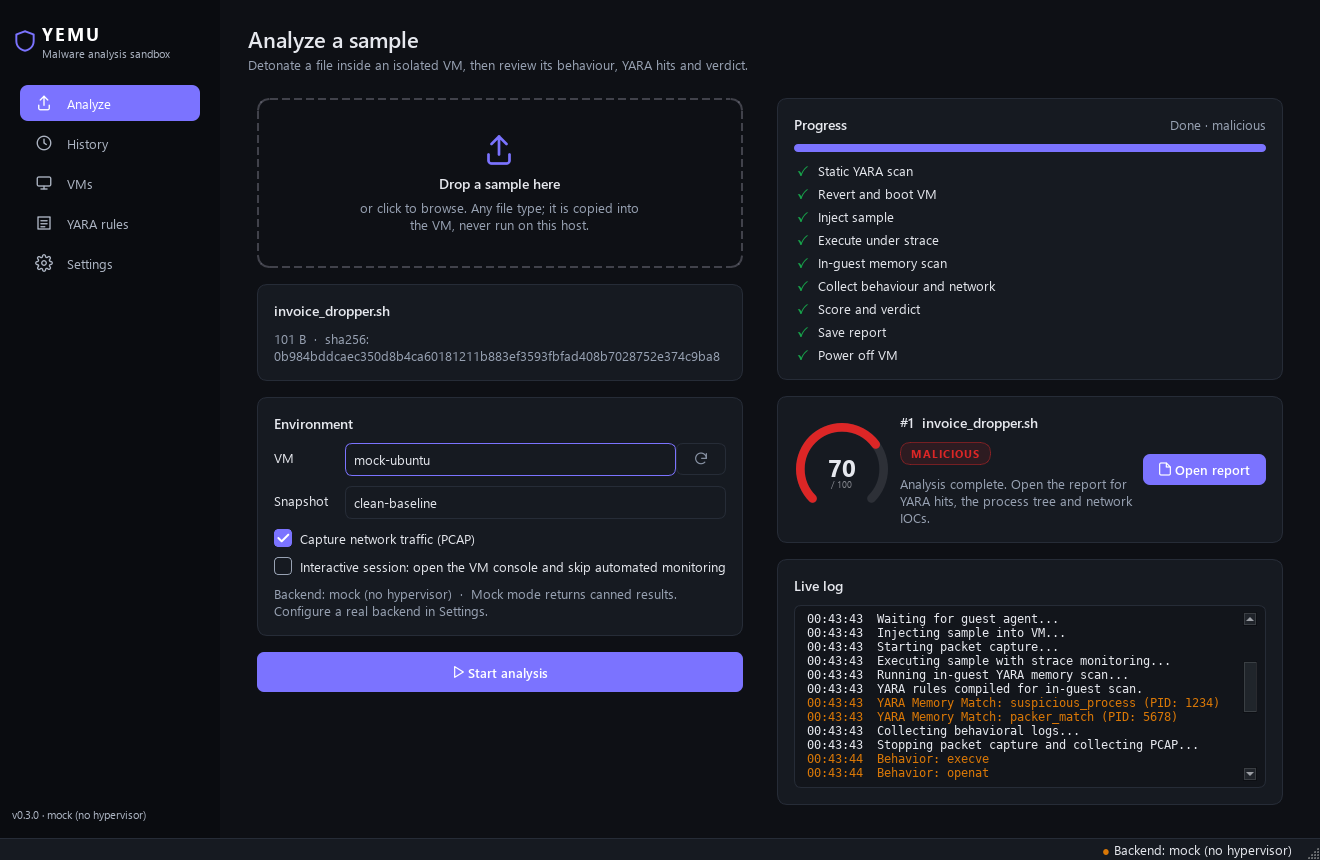
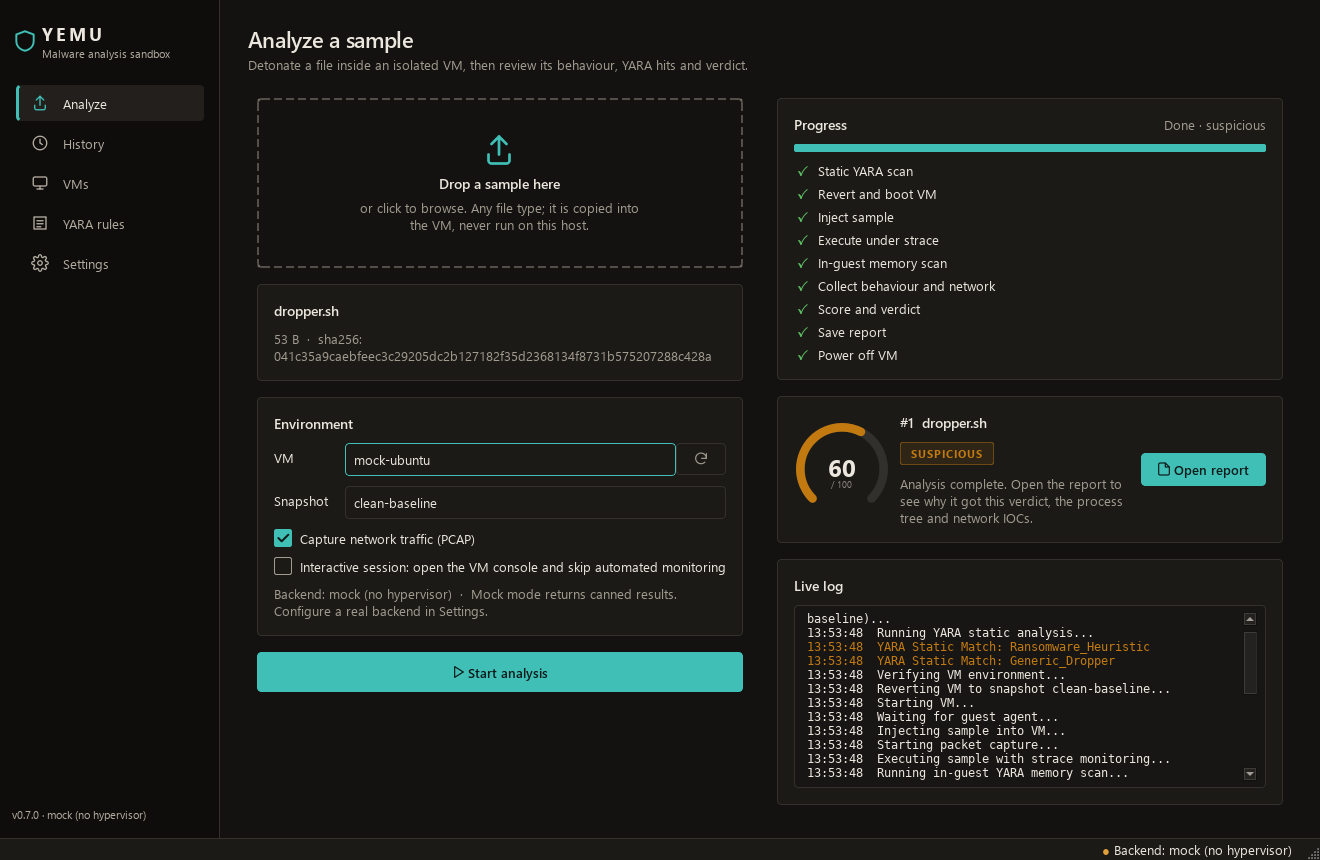
Document rule sources and config errors; refresh screenshots

diff --git a/README.md b/README.md
@@ -163,11 +163,11 @@ yemu config           # shows the effective settings
 | `[network]` | `name`, `allow_internet` (turns off the isolation warning) |
 | `[analysis]` | `execution_wait` (seconds before logs are collected), `timeout`, `max_sample_mb`, `max_events`, `max_pcap_mb` |
 | `[scoring]` | score weights and verdict thresholds |
-| `[rules]` | `source` (`yara-forge`/`github-repo`), `package` (`core`/`extended`/`full`), `repo_url` and `branch` (for `github-repo`), `ref` (pin a release tag or commit), `auto_update`, `update_interval_days`, `max_download_mb` |
+| `[rules]` | `sources` (one `[[rules.sources]]` table per rule set, see [YARA rules](#yara-rules)), `auto_update`, `update_interval_days`, `max_download_mb` (per source) |
 | `[updates]` | `check_on_startup`, `include_prereleases`, `check_interval_hours` |
 | `[ui]` | `theme` (`system`/`light`/`dark`) |
 
-You can also edit all of these on the desktop app's **Settings** page.
+You can also edit all of these on the desktop app's **Settings** page. If `config.toml` can't be parsed, or a value has the wrong type or an unknown choice (for example `timeout = "900"` or `backend = "qemuu"`), YEMU stops with a `Config error:` naming the file and the key instead of running on defaults; `yemu paths` and `yemu config --init --force` still work so you can find or reset the file.
 
 ## Updates
 
@@ -181,16 +181,38 @@ YEMU's default rule source is **[YARA Forge](https://github.com/YARAHQ/yara-forg
 | `extended` | ~10,700 | You'd rather see more hits and don't mind triaging a few false positives |
 | `full` | everything | You're researching or hunting and noise is acceptable |
 
-With `[rules].auto_update = true` (the default), the desktop app re-syncs the rules in the background when they're older than `update_interval_days` (7 by default), or when you switch to a different source. From the command line:
+You can sync several sources at once. Each `[[rules.sources]]` entry is either a YARA Forge package or any GitHub rule repository, and each one lands in its own rule set; all of them are loaded for every analysis. `ref` is optional and pins a release tag or commit.
+
+```toml
+[rules]
+auto_update = true
+update_interval_days = 7
+
+[[rules.sources]]
+source = "yara-forge"
+package = "core"
+
+[[rules.sources]]
+source = "github-repo"
+repo_url = "https://github.com/Neo23x0/signature-base"
+branch = "master"
+```
+
+Older configs with a single `source`/`package`/`repo_url` under `[rules]` are read as one entry, and saving from Settings writes the new format. In the desktop app, **Settings → Updates** has the source list with **Add source** and **Remove**.
+
+With `[rules].auto_update = true` (the default), the desktop app re-syncs in the background when any configured set has never been synced or is older than `update_interval_days` (7 by default). From the command line:
 
 ```bash
+yemu sync-rules              # sync every configured source
 yemu update rules            # sync if an update is due
 yemu update rules --force    # sync now
-yemu sync-rules --package extended
+yemu sync-rules --package extended                                        # one extra set, just this once
 yemu sync-rules --repo https://github.com/<owner>/<repo> --branch main   # any GitHub rule repository
 ```
 
-To automate this on a server, schedule `yemu update rules` with cron or Task Scheduler. A successful sync replaces rule sets that YEMU downloaded earlier from other sources. Your own rules, in the **My rules** group or the `rules/custom` folder, are never touched.
+One failing source doesn't stop the others: its previous set stays in place, the failure is reported, and the command exits with 1. A full sync removes YEMU-managed sets that are no longer in `[rules].sources`, including one-off `--package`/`--repo` sets. Your own rules, in the **My rules** group or the `rules/custom` folder, are never touched.
+
+To automate this on a server, schedule `yemu update rules` with cron or Task Scheduler.
 
 ### YEMU itself
 
@@ -260,12 +282,13 @@ yemu gui              # or: python main.py, or the yemu-gui launcher
 | **History** | Every analysis, with verdict counts, search by file name or ID, and a verdict filter. Double-click a row to open its report. |
 | **Report** | Score gauge and verdict. Hashes and times. Counts of YARA hits, processes, file operations and network IOCs. Tabs for the **process tree**, **YARA** matches (with matched strings), a filterable **behaviour** timeline, **network** IOCs and raw JSON. Export to PDF or JSON. |
 | **VMs** | Shows the backend and its acceleration, and each VM's state and snapshots. Create a VM (with live progress), start, stop, open its console, or delete it. |
-| **YARA rules** | Built-in rules (read-only), your own rules and synced rule sets, in an editor with syntax highlighting. **Validate** compiles the rule, and saving also checks it. Synced sets are read-only, because each update replaces them. **Update now** re-syncs the configured source. |
-| **Settings** | Backend, default VM and snapshot, timeouts, QEMU folder and acceleration, the network-isolation override, theme and rule source. Also shows where data is stored, and **Run checks** runs `yemu doctor`. |
+| **YARA rules** | Built-in rules (read-only), your own rules and synced rule sets, in an editor with syntax highlighting. **Validate** compiles the rule, and saving also checks it. Synced sets are read-only, because each update replaces them. **Update now** re-syncs every configured source, and the panel shows each source's synced version and date. |
+| **Settings** | Backend, default VM and snapshot, timeouts, QEMU folder and acceleration, the network-isolation override, theme, and the list of YARA rule sources (**Add source**, **Remove**). Also shows where data is stored, and **Run checks** runs `yemu doctor`. |
 
 Shortcuts: `Ctrl+O` opens a sample, and `Ctrl+1` to `Ctrl+5` switch pages. The theme follows the system light/dark setting unless you set one in Settings.
 
 ![Analyze page, dark theme](docs/screenshots/analyze-dark.png)
+![Analyze page, light theme](docs/screenshots/analyze-light.png)
 
 ### Command line (Linux and Windows)
 

diff --git a/CHANGELOG.md b/CHANGELOG.md
@@ -1,5 +1,27 @@
 # Changelog
 
+## Unreleased
+
+### Look and feel
+- A new "Lab bench" theme for the desktop app: warm paper and graphite neutrals with a petrol-teal accent, in light and dark. The accent never overlaps the green, amber and red verdict colours.
+- Every colour in the app now comes from the theme: stage tracker, run and VM states, the drop zone, verdict badges, the YARA editor highlighting and the backend status dot all follow light and dark.
+- One corner radius scale, visible keyboard focus on inputs, buttons, tables and checkboxes, and the selected page in the sidebar is marked with an accent bar. The sidebar shield and page icons follow a live theme switch.
+
+### YARA rules
+- Several rule sources at once: `[rules].sources` is a list of `[[rules.sources]]` tables (YARA Forge packages and GitHub repositories), each synced into its own rule set and all loaded for every analysis.
+- Configs with the old single `source`/`package`/`repo_url`/`branch`/`ref` keys under `[rules]` are converted on load, and the next save writes the new format.
+- One failing source no longer blocks the rest: its previous set stays in place, and `yemu sync-rules` / `yemu update rules` report it and exit with 1. A full sync removes YEMU-managed sets that are no longer configured.
+- `yemu sync-rules --package`/`--repo` syncs one extra set; `--branch` or `--ref` on their own are now an error. `yemu update check` lists every source with its synced version.
+- **Settings → Updates** has a source list with **Add source** and **Remove**; the YARA rules page shows each source's synced version and date.
+
+### Reliability
+- A `config.toml` that can't be parsed, or has a value of the wrong type (`timeout = "900"`, `true` for a number) or an unknown choice (`backend`, `accel`, `theme`, rule `source`), is reported as a config error instead of being silently replaced by defaults. The CLI prints one `Config error:` line and exits 2 (`yemu paths` and `yemu config --init` still work); the desktop app shows the error and exits without touching the file.
+- CLI crashes print one `Error:` line pointing at `yemu.log`, which has the traceback (`-v` also prints it). Ctrl+C prints `Interrupted.` and exits 130.
+- Unexpected errors in the desktop app are logged and shown in a dialog instead of disappearing.
+- Analyses left `running` by a YEMU that was closed or killed mid-run are marked `interrupted` when the database is next opened.
+- The Analyze page says why a sample can't be used (a folder, a missing file, a file over the size limit, or a file that can't be read) and keeps Start disabled.
+- A failure to close the database on exit is logged.
+
 ## 0.7.0 (2026-09-29)
 
 ### YARA rules
